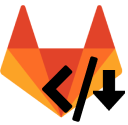
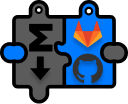
Nuove icone + guida per gihub

diff --git a/index.html b/index.html
@@ -27,6 +27,25 @@
             <div class="page_container hidden" id="news" class="tabcontent">
                 <section class="page-container">
                     <section class="content-container">
+                        <a href="#1.4.1"><h3 id="1.4.1"><span class="number">Version</span>1.4.1</h3></a>
+                        <section class="content-section">
+                            <p>New icons for the extension.</p>
+                            <p>Updated the web page.</p>
+                        </section>
+                    </section>
+                    <section class="content-container">
+                        <a href="#1.4.0"><h3 id="1.4.0"><span class="number">Version</span>1.4.0</h3></a>
+                        <section class="content-section">
+                            <p>Added logic to handle GitLab pagination.</p>
+                        </section>
+                    </section>
+                    <section class="content-container">
+                        <a href="#1.3.2"><h3 id="1.3.2"><span class="number">Version</span>1.3.2</h3></a>
+                        <section class="content-section">
+                            <p>Added popup with contact information.</p>
+                        </section>
+                    </section>
+                    <section class="content-container">
                         <a href="#1.3.1"><h3 id="1.3.1"><span class="number">Version</span>1.3.1</h3></a>
                         <section class="content-section">
                             <p>Fix for markdow generation for tags without notes</p>
@@ -79,12 +98,25 @@
                         <a href="#how_to_start"><h3 id="how_to_start"><span class="number">1.</span>How to start</h3></a>
                         <section class="content-section inline">
                             <div class="image_container">
-                                <img src="images/tags.png">
-                                <img src="images/tags-feed.png">
+                                <img src="images/gitlab_tags.png">
+                                <img src="images/gitlab_tags-feed.png">
                             </div>
                             <div class="description">
-                                <p>From the project page, open the tags page</p>
-                                <p>The generation can also be done from the feed tags page</p>
+                                <p><b>Gitlab</b></p>
+                                <p>From the project page, open the tags page.</p>
+                                <p>The generation can also be done from the feed tags page.</p>
+                            </div>
+                        </section>
+                        <section class="content-section inline">
+                            <div class="image_container">
+                                <img src="images/github_tags.png">
+                                <img src="images/github_tags2.png">
+                            </div>
+                            <div class="description">
+                                <p><b>Github</b></p>
+                                <p>From the project page, open the release page.</p>
+                                <p>From the release page, go back by clicking the "release" text on the top.</p>
+                                <p>Switch to the tags page.</p>
                             </div>
                         </section>
                     </section>
@@ -106,7 +138,7 @@
                         <section class="content-section inline">
                             <img src="images/format.png">
                             <div class="description">
-                                <p>Enter the markdown, enter the markdown in the "Replace" field and the new text in the "With" field</p>
+                                <p>Enter the markdown, enter the markdown in the "Replace" field and the new text in the "With" field.</p>
                                 <p>Click on <span class="btn-readme">"Generate README"</span></p>
                             </div>
                         </section>
